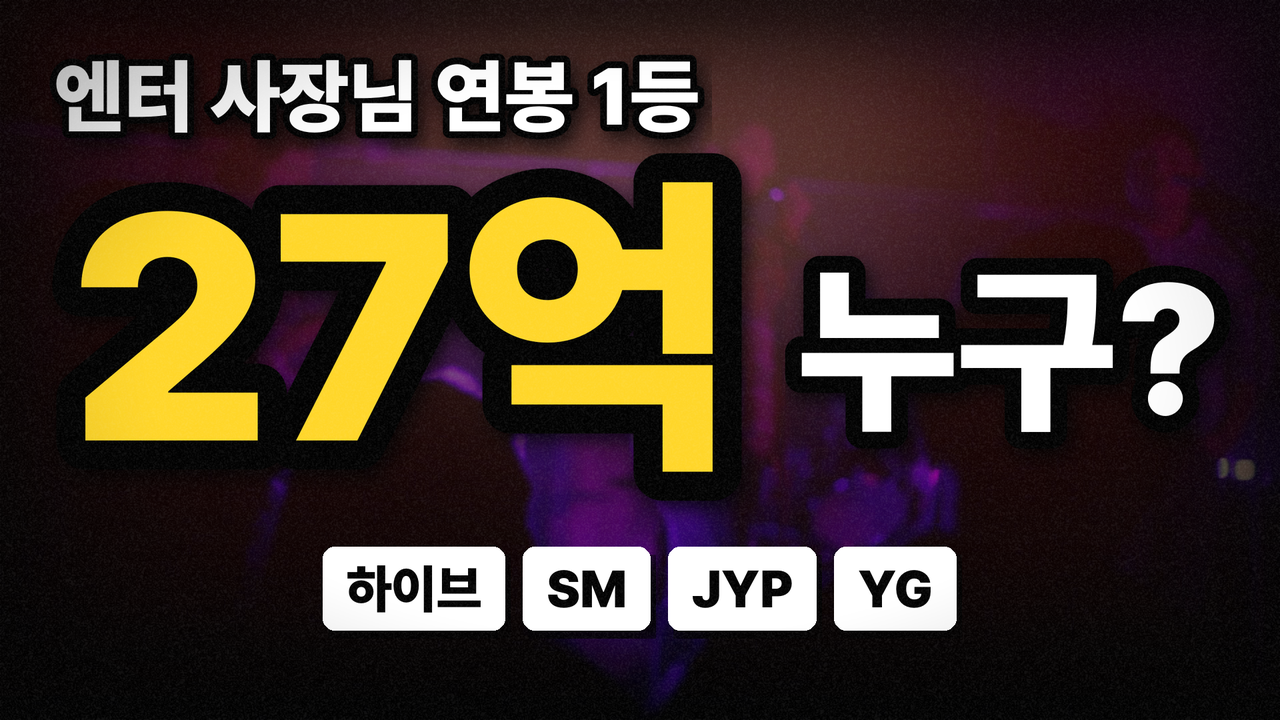
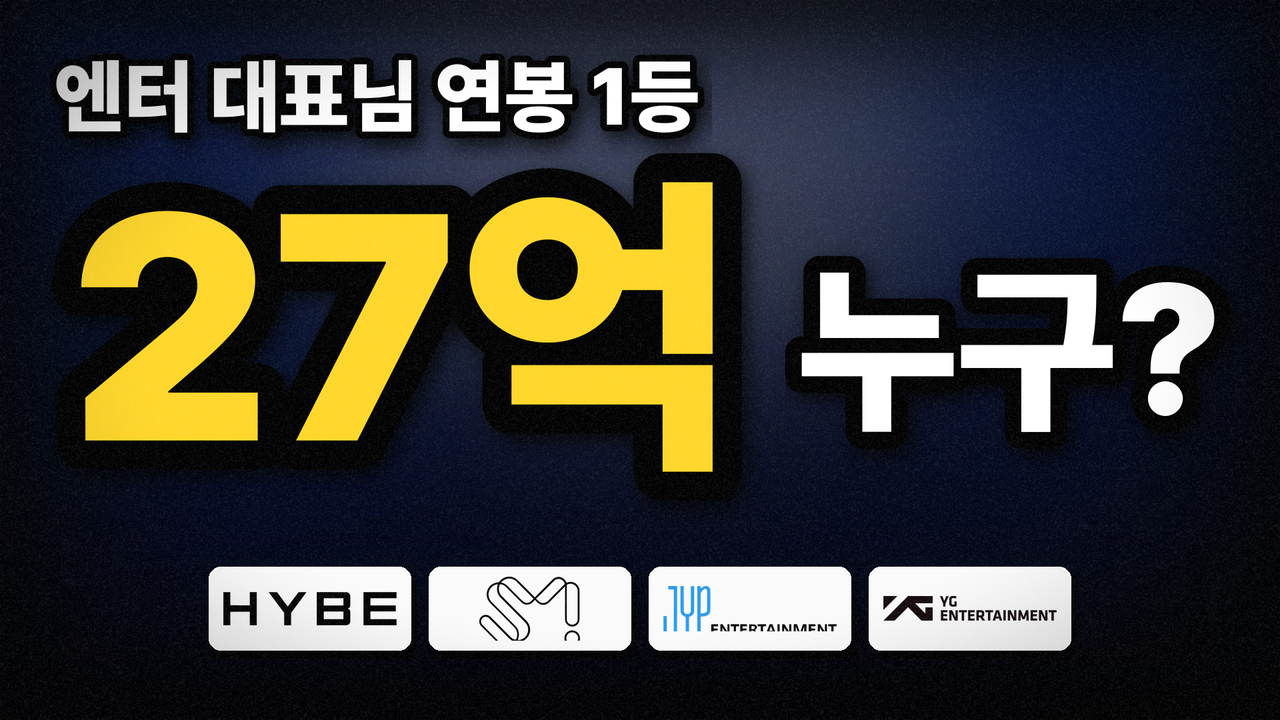
EP021 수정: 새 인트로(궁금증 + 가린 순위) · CI 로고 순위표 · 국내 아이돌 사진 · 붕어빵 비유 수정 · 썸네일 10종(CI · 엔터주 언제 살까)
Claude-Session: https://claude.ai/code/session_01XzgYRsYwxnJKVwoBmLGtiR

diff --git a/youtube/engine/editorial.py b/youtube/engine/editorial.py
@@ -1940,11 +1940,17 @@ class Leaderboard(Editorial):
             num = T(str(i + r0), 46, (20, 22, 30), "Black")
             md.alpha_composite(num, (md.width // 2 - num.width // 2, md.height // 2 - num.height // 2 - 2))
             G.blit(f, md, (cx, cy), k, "mm")
-            lab = T(r["label"], 44, S.FG, "Black")
-            G.blit(f, lab, (x0 + 100, cy - 6), k, "lb")
+            ci = logo_chip(r["logo"], 64) if (r.get("logo") and sp.get("logo_as_label")) else None
+            if ci is not None:   # 2026-11-20 사용자: 회사 이름 대신 CI
+                G.blit(f, ci, (x0 + 100, cy - 4), k, "lb")
+                if r.get("label"):
+                    G.blit(f, T(r["label"], 30, S.FG, "Black"), (x0 + 110 + ci.width, cy - 14), k, "lb")
+            else:
+                lab = T(r["label"], 44, S.FG, "Black")
+                G.blit(f, lab, (x0 + 100, cy - 6), k, "lb")
             if r.get("sub"):
                 G.blit(f, T(r["sub"], 26, (190, 196, 212), "SemiBold"), (x0 + 102, cy + 6), k, "lt")
-            if r.get("logo"):
+            if r.get("logo") and ci is None:
                 lg = logo_chip(r["logo"], 52)
                 if lg is not None:
                     G.blit(f, lg, (S.W - S.SAFE_X - 24, cy), k, "rm")
@@ -2952,8 +2958,11 @@ class Showcase(Editorial):
         f.alpha_composite(fr2, (x0, y0))
         if sp.get("tag"):
             G.blit(f, G.pill(sp["tag"], "Black", 44, white, green, pad=(24, 10), radius=8), (x0 + 30, y0 + 30), 1, "lt")
-        if sp.get("logo"):
-            lg = logo_chip(sp["logo"], 70) if sp.get("logo_plate", True) else None
+        lg_name = sp.get("logo")
+        if sp.get("logos") and not sp.get("media"):   # 사진마다 다른 CI (사진 순서와 같게)
+            lg_name = sp["logos"][int(t / sp.get("per", 2.6)) % len(sp["logos"])]
+        if lg_name:
+            lg = logo_chip(lg_name, 70) if sp.get("logo_plate", True) else None
             if lg is not None:
                 G.blit(f, lg, (x0 + pw - 24, y0 + 30), 1, "rt")
         kx = x0 + pw + 46

diff --git a/youtube/tools/thumb10.py b/youtube/tools/thumb10.py
@@ -589,8 +589,23 @@ def main(ep_dir):
     outs = []
     for sp in ep["thumbs10"]:
         f = P[sp["p"]](sp)
-        if sp.get("chips"):   # 2026-11-20: 회사 · 브랜드 이름 칩 한 줄 (예: 하이브 · SM · JYP · YG)
-            row = [G.pill(c, "Black", sp.get("chip_size", 78), BLACK, WHITE, pad=(34, 14), radius=18) for c in sp["chips"]]
+        if sp.get("logos"):   # 2026-11-20 사용자: 회사 이름 대신 CI (흰 판 위 로고)
+            bw, bh = sp.get("logo_box", (330, 120))
+            row = []
+            for n in sp["logos"]:   # 로고마다 같은 상자에 맞춤 (가로로 긴 YG · 정사각 SM 이 비슷한 존재감)
+                lg = Image.open(TH.ROOT / "assets/photos" / f"{n}.png").convert("RGBA")
+                k = min(bw / lg.width, bh / lg.height)
+                lg = lg.resize((int(lg.width * k), int(lg.height * k)), Image.LANCZOS)
+                chip = Image.new("RGBA", (bw + 44, bh + 30), (0, 0, 0, 0))
+                ImageDraw.Draw(chip).rounded_rectangle((0, 0, chip.width - 1, chip.height - 1), 18, fill=(255, 255, 255, 250))
+                chip.alpha_composite(lg, ((chip.width - lg.width) // 2, (chip.height - lg.height) // 2))
+                row.append(chip)
+            sp["_row"] = row
+        if sp.get("point"):   # 보조 포인트 문구 (예: 엔터주 언제 살까?)
+            pt = G.pill(sp["point"], "Black", sp.get("point_size", 74), WHITE, (205, 25, 30), pad=(34, 14), radius=16)
+            TH.shadowed(f, pt, tuple(sp.get("point_xy", (W - 60, H * 0.40))), "rm")
+        if sp.get("chips") or sp.get("_row"):   # 2026-11-20: 회사 · 브랜드 이름 칩 한 줄 (예: 하이브 · SM · JYP · YG)
+            row = sp.get("_row") or [G.pill(c, "Black", sp.get("chip_size", 78), BLACK, WHITE, pad=(34, 14), radius=18) for c in sp["chips"]]
             gap = 26
             tw_ = sum(r.width for r in row) + gap * (len(row) - 1)
             x = (W - tw_) / 2
